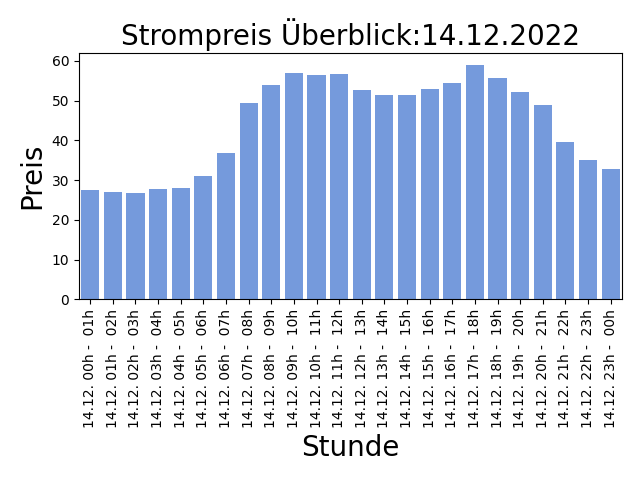
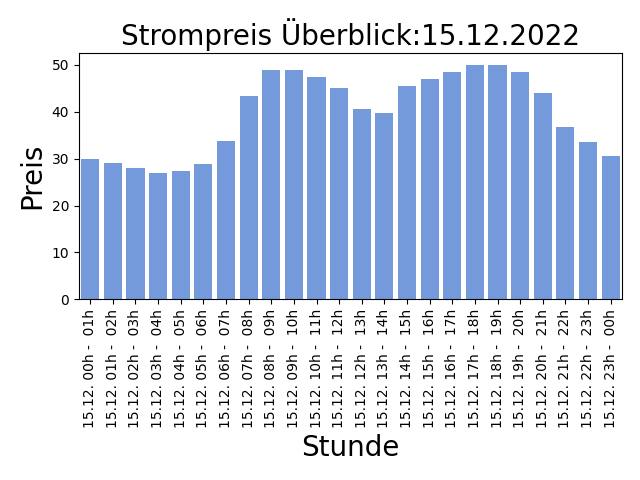
AUTOMATIC UPDATE PRICE LIST: 2022-12-14-14:30:06

diff --git a/README.md b/README.md
@@ -1,5 +1,5 @@
 
-## Strompreise für den 14.12.2022
+## Strompreise für den 15.12.2022
 
 Niedrige Preise deuten auf viel Sonnen und Windenergieerzeugung hin, ein hoher Anteil an erneuerbaren Energien bedeuted weniger CO2 Verbrauch!
 
@@ -7,31 +7,31 @@ Niedrige Preise deuten auf viel Sonnen und Windenergieerzeugung hin, ein hoher A
 
 | Stunde | Preis in Cent/kWh |
 |---|---|
-| 14.12. 00h -  01h | 27.482 | 
-| 14.12. 01h -  02h | 27.047000000000004 | 
-| **14.12. 02h -  03h** | **26.869** | 
-| 14.12. 03h -  04h | 27.82 | 
-| 14.12. 04h -  05h | 28.020999999999997 | 
-| 14.12. 05h -  06h | 31.111 | 
-| 14.12. 06h -  07h | 36.882 | 
-| 14.12. 07h -  08h | 49.497 | 
-| 14.12. 08h -  09h | 53.999 | 
-| 14.12. 09h -  10h | 56.972 | 
-| 14.12. 10h -  11h | 56.517999999999994 | 
-| 14.12. 11h -  12h | 56.801 | 
-| 14.12. 12h -  13h | 52.607000000000006 | 
-| 14.12. 13h -  14h | 51.548 | 
-| 14.12. 14h -  15h | 51.495000000000005 | 
-| 14.12. 15h -  16h | 52.852999999999994 | 
-| 14.12. 16h -  17h | 54.5 | 
-| 14.12. 17h -  18h | 59.0 | 
-| 14.12. 18h -  19h | 55.7 | 
-| 14.12. 19h -  20h | 52.057 | 
-| 14.12. 20h -  21h | 48.79 | 
-| 14.12. 21h -  22h | 39.667 | 
-| 14.12. 22h -  23h | 35.172000000000004 | 
-| 14.12. 23h -  00h | 32.894 | 
+| 15.12. 00h -  01h | 30.0 | 
+| 15.12. 01h -  02h | 29.074 | 
+| 15.12. 02h -  03h | 27.945999999999998 | 
+| **15.12. 03h -  04h** | **27.019** | 
+| 15.12. 04h -  05h | 27.413999999999998 | 
+| 15.12. 05h -  06h | 28.963 | 
+| 15.12. 06h -  07h | 33.673 | 
+| 15.12. 07h -  08h | 43.274 | 
+| 15.12. 08h -  09h | 49.003 | 
+| 15.12. 09h -  10h | 48.966 | 
+| 15.12. 10h -  11h | 47.455 | 
+| 15.12. 11h -  12h | 45.072 | 
+| 15.12. 12h -  13h | 40.656 | 
+| 15.12. 13h -  14h | 39.653 | 
+| 15.12. 14h -  15h | 45.505 | 
+| 15.12. 15h -  16h | 46.993 | 
+| 15.12. 16h -  17h | 48.503 | 
+| 15.12. 17h -  18h | 50.0 | 
+| 15.12. 18h -  19h | 49.991 | 
+| 15.12. 19h -  20h | 48.553 | 
+| 15.12. 20h -  21h | 43.989999999999995 | 
+| 15.12. 21h -  22h | 36.772000000000006 | 
+| 15.12. 22h -  23h | 33.629000000000005 | 
+| 15.12. 23h -  00h | 30.606 | 
 
 Preise der EPEX Spot ® Strombörse (neue Preise werden täglich um 14:00 veröffentlicht für den kompletten nächsten Tag).
 
-letzte Aktualisierung:13.12.2022 14:30
+letzte Aktualisierung:14.12.2022 14:30
